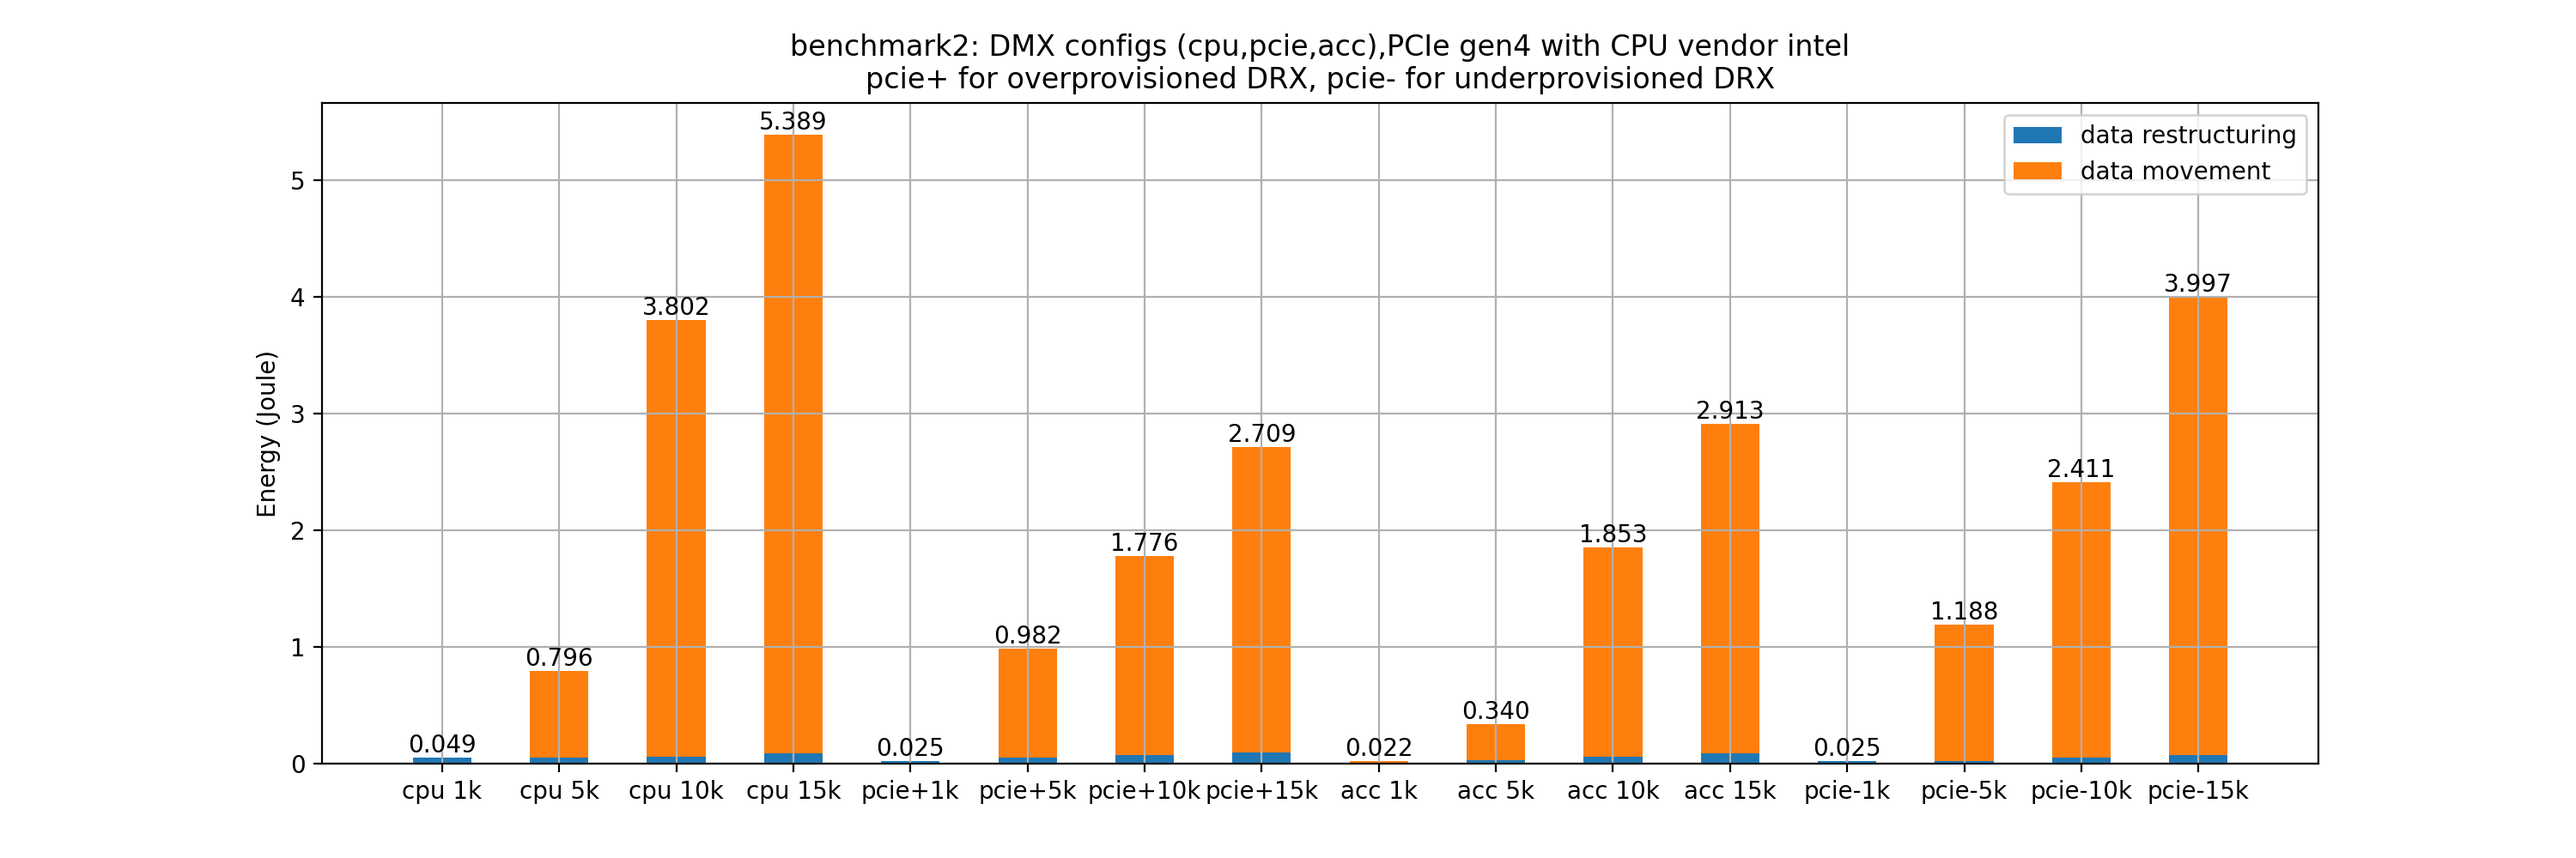
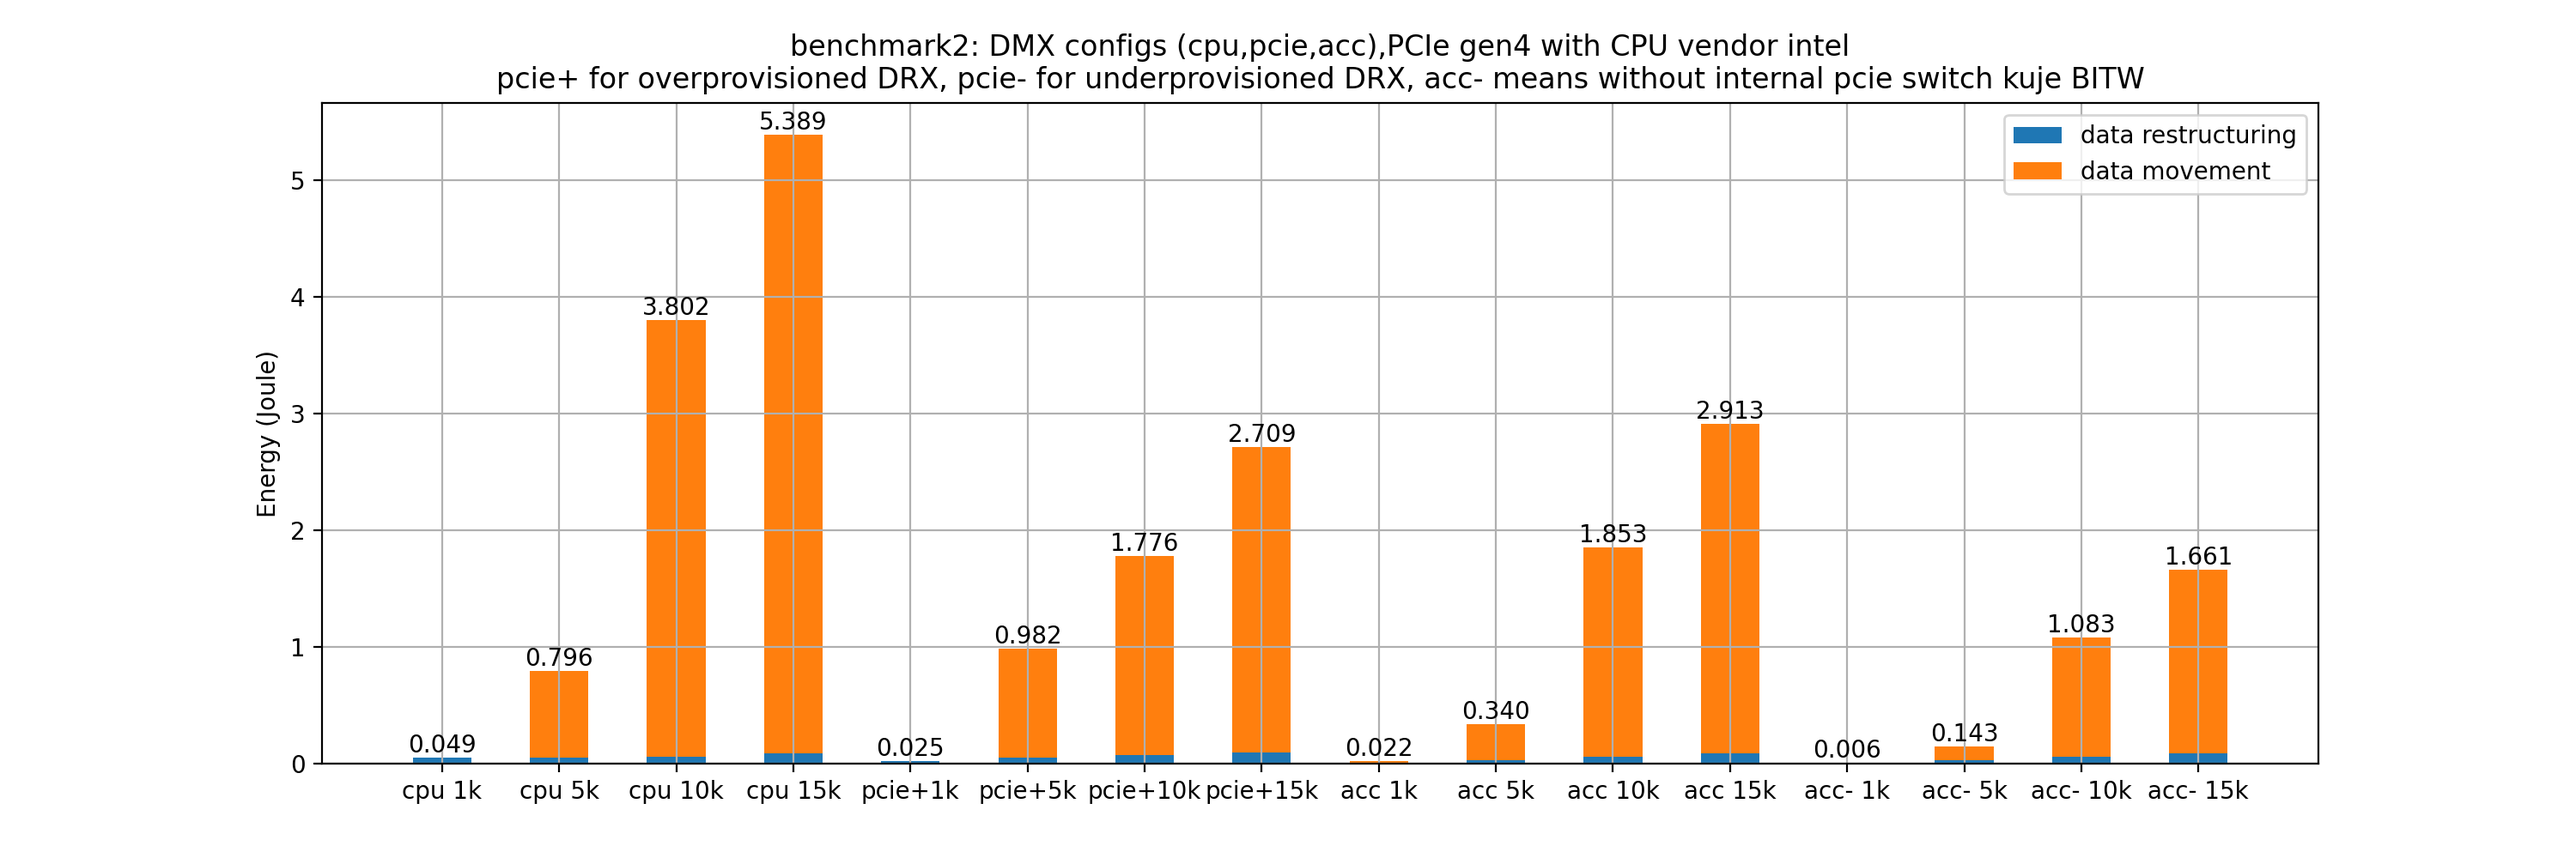
updated acc energy and power

Changed region(s): [[0.186, 0.062, 0.837, 0.124], [0.744, 0.31, 0.868, 0.868], [0.713, 0.868, 0.868, 0.93]]

diff --git a/breakdown_acc_dmx_power.py b/breakdown_acc_dmx_power.py
@@ -2,7 +2,7 @@ import matplotlib.pyplot as plt
 import numpy as np
 from scipy.stats import gmean
 import sys
-from pcie_dma_model import pcie_energy
+from pcie_dma_model import pcie_power
 
 #B1: camera: video -> YOLO, 1080*720*4*32
 #B2: audio:  FFT -> SVM, 1024*768
@@ -113,33 +113,33 @@ else:
     exit()
 
 # pcie_energy = data movement PCIe per bit power*time + data movement PCIe switch power*time
-pcie_energy_cpu = [pcie_energy("cpu", data_size, 1, pci_gen, cpu_vendor), pcie_energy("cpu", data_size, 5, pci_gen, cpu_vendor), pcie_energy("cpu", data_size, 10, pci_gen, cpu_vendor), pcie_energy("cpu", data_size, 15, pci_gen, cpu_vendor)]
-pcie_energy_pcie_overprovisioned = [pcie_energy("pcie", data_size, 1, pci_gen, cpu_vendor), pcie_energy("pcie", data_size, 5, pci_gen, cpu_vendor), pcie_energy("pcie", data_size, 10, pci_gen, cpu_vendor), pcie_energy("pcie", data_size, 15, pci_gen, cpu_vendor)]
-pcie_energy_pcie_under= [pcie_energy("pcie-under", data_size, 1, pci_gen, cpu_vendor), pcie_energy("pcie-under", data_size, 5, pci_gen, cpu_vendor), pcie_energy("pcie-under", data_size, 10, pci_gen, cpu_vendor), pcie_energy("pcie-under", data_size, 15, pci_gen, cpu_vendor)]
-pcie_energy_acc = [pcie_energy("acc", data_size, 1, pci_gen, cpu_vendor), pcie_energy("acc", data_size, 5, pci_gen, cpu_vendor), pcie_energy("acc", data_size, 10, pci_gen, cpu_vendor), pcie_energy("acc", data_size, 15, pci_gen, cpu_vendor)]
-pcie_energy_acc_nosw = [pcie_energy("acc-nosw", data_size, 1, pci_gen, cpu_vendor), pcie_energy("acc-nosw", data_size, 5, pci_gen, cpu_vendor), pcie_energy("acc-nosw", data_size, 10, pci_gen, cpu_vendor), pcie_energy("acc-nosw", data_size, 15, pci_gen, cpu_vendor)]
+pcie_power_cpu = [pcie_power("cpu", data_size, 1, pci_gen, cpu_vendor), pcie_power("cpu", data_size, 5, pci_gen, cpu_vendor), pcie_power("cpu", data_size, 10, pci_gen, cpu_vendor), pcie_power("cpu", data_size, 15, pci_gen, cpu_vendor)]
+pcie_power_pcie_overprovisioned = [pcie_power("pcie", data_size, 1, pci_gen, cpu_vendor), pcie_power("pcie", data_size, 5, pci_gen, cpu_vendor), pcie_power("pcie", data_size, 10, pci_gen, cpu_vendor), pcie_power("pcie", data_size, 15, pci_gen, cpu_vendor)]
+pcie_power_pcie_under= [pcie_power("pcie-under", data_size, 1, pci_gen, cpu_vendor), pcie_power("pcie-under", data_size, 5, pci_gen, cpu_vendor), pcie_power("pcie-under", data_size, 10, pci_gen, cpu_vendor), pcie_power("pcie-under", data_size, 15, pci_gen, cpu_vendor)]
+pcie_power_acc = [pcie_power("acc", data_size, 1, pci_gen, cpu_vendor), pcie_power("acc", data_size, 5, pci_gen, cpu_vendor), pcie_power("acc", data_size, 10, pci_gen, cpu_vendor), pcie_power("acc", data_size, 15, pci_gen, cpu_vendor)]
+pcie_power_acc_nosw = [pcie_power("acc-nosw", data_size, 1, pci_gen, cpu_vendor), pcie_power("acc-nosw", data_size, 5, pci_gen, cpu_vendor), pcie_power("acc-nosw", data_size, 10, pci_gen, cpu_vendor), pcie_power("acc-nosw", data_size, 15, pci_gen, cpu_vendor)]
 
 #pcie_energy_total = [pcie_energy_cpu, pcie_energy_pcie_overprovisioned, pcie_energy_acc, pcie_energy_pcie_under]
-pcie_energy_total = [pcie_energy_cpu, pcie_energy_pcie_overprovisioned, pcie_energy_acc, pcie_energy_acc_nosw]
-pcie_energy_total = np.array(pcie_energy_total)
-pcie_energy_total = pcie_energy_total.flatten()
+pcie_power_total = [pcie_power_cpu, pcie_power_pcie_overprovisioned, pcie_power_acc, pcie_power_acc_nosw]
+pcie_power_total = np.array(pcie_power_total)
+pcie_power_total = pcie_power_total.flatten()
 
 drx_asic_power = 4.1
 # in mJ
-drx_energy_cpu  = np.array([dmx_time*8*drx_asic_power, dmx_time*8*drx_asic_power, dmx_time*10/8*8*drx_asic_power, dmx_time*15/8*8*drx_asic_power])
+drx_power_cpu  = np.array([8*drx_asic_power, 8*drx_asic_power, 8*drx_asic_power, 8*drx_asic_power])
 
-drx_energy_pcie_overprovisioned = [dmx_time*4*drx_asic_power, dmx_time*8*drx_asic_power, dmx_time*12*drx_asic_power, dmx_time*16*drx_asic_power]
-drx_energy_pcie_under = [dmx_time*4*drx_asic_power, dmx_time*4*drx_asic_power, dmx_time*8*drx_asic_power, dmx_time*12*drx_asic_power]
+drx_power_pcie_overprovisioned = [4*drx_asic_power, 8*drx_asic_power, 12*drx_asic_power, 16*drx_asic_power]
+drx_power_pcie_under = [4*drx_asic_power, 4*drx_asic_power, 8*drx_asic_power, 12*drx_asic_power]
 
-drx_energy_acc  = [dmx_time * drx_asic_power, dmx_time*5*drx_asic_power, dmx_time*10*drx_asic_power, dmx_time*15*drx_asic_power]
-drx_energy_acc_nosw = drx_energy_acc
+drx_power_acc  = [drx_asic_power, 5*drx_asic_power, 10*drx_asic_power, 15*drx_asic_power]
+drx_power_acc_nosw = drx_power_acc
 
 #drx_energy_total = [drx_energy_cpu, drx_energy_pcie_overprovisioned, drx_energy_acc, drx_energy_pcie_under]
-drx_energy_total = [drx_energy_cpu, drx_energy_pcie_overprovisioned, drx_energy_acc, drx_energy_acc_nosw]
-drx_energy_total = np.array(drx_energy_total)
-drx_energy_total = drx_energy_total.flatten()
+drx_power_total = [drx_power_cpu, drx_power_pcie_overprovisioned, drx_power_acc, drx_power_acc_nosw]
+drx_power_total = np.array(drx_power_total)
+drx_power_total = drx_power_total.flatten()
 
-dmx_energy_total = drx_energy_total + pcie_energy_total
+dmx_energy_total = drx_power_total + pcie_power_total
 
 fig_title = f'{benchmark_name}: DMX configs (cpu,pcie,acc),' + f"PCIe {pci_gen} with CPU vendor {cpu_vendor}\n" + f"pcie+ for overprovisioned DRX, pcie- for underprovisioned DRX, acc- means without internal pcie switch BITW"
 
@@ -153,26 +153,25 @@ labels = [f'cpu 1k', f'cpu 5k', f'cpu 10k' , f'cpu 15k',
           f'acc- 1k', f'acc- 5k', f'acc- 10k' , f'acc- 15k']
 
 
-print("pcie_energy_total")
+#print("pcie_energy_total")
 np.set_printoptions(formatter={'float': lambda x: "{0:0.3f}".format(x)})
-print(pcie_energy_total/1000)
+print(f"pcie_power_total:{pcie_power_total}")
+print(f"drx_power_total:{drx_power_total}")
 
-drx_ratio = drx_energy_total/dmx_energy_total
-data_movement_ratio = pcie_energy_total/dmx_energy_total
+drx_ratio = drx_power_total/dmx_energy_total
+data_movement_ratio = pcie_power_total/dmx_energy_total
 
 fig, ax = plt.subplots(figsize=(15,5))
-if mode == "energy":
-    drx_energy_total = drx_energy_total/1000
-    ax.bar(labels, drx_energy_total, width=0.5, label='data restructuring')
-    bottom = drx_energy_total
+if mode == "power":
+    ax.bar(labels, drx_power_total, width=0.5, label='data restructuring')
+    bottom = drx_power_total
 
-    pcie_energy_total = pcie_energy_total/1000
-    p = ax.bar(labels, pcie_energy_total, width=0.5, bottom=bottom, label='data movement')
+    p = ax.bar(labels, pcie_power_total, width=0.5, bottom=bottom, label='data movement')
     ax.bar_label(p, fmt='%.3f', label_type='edge')
 
     ax.legend(loc='best')
-    ax.set_ylabel('Energy (Joule)')
-    title = f"energy_{benchmark_name}_acc_dmx_configs_{cpu_vendor}_{pci_gen}.png"
+    ax.set_ylabel('Power (Watts)')
+    title = f"power_{benchmark_name}_acc_dmx_configs_{cpu_vendor}_{pci_gen}.png"
 
 elif mode == "breakdown":
     ax.bar(labels, drx_ratio, width=0.5, label='data restructuring')
@@ -181,7 +180,7 @@ elif mode == "breakdown":
 
     ax.legend(loc='best')
     ax.set_ylabel('Percentage (%)')
-    title = f'energy_breakdown_{benchmark_name}_acc_dmx_configs_{cpu_vendor}_{pci_gen}.png'
+    title = f'power_breakdown_{benchmark_name}_acc_dmx_configs_{cpu_vendor}_{pci_gen}.png'
 
 
 ax.grid(True)

diff --git a/pcie_dma_model.py b/pcie_dma_model.py
@@ -26,6 +26,39 @@ def pcie_switching_delay(data_size:int, pcie_gen: str) -> float:
 # def pcie_transfer_power()
 # PCIe:11 pJ/b
 
+def pcie_power(dmx_placment: str,data_size:int, num_kernel: int, pcie_gen: str, cpu_vendor: str) -> float:
+    acc_axi_delay = 57*0.001*0.001 # 57 ns
+    pcie_mps = 256 # max_payload_size of PCIe we assume, which is very common
+    mem_wrtie_hdr = 24 # 2B framing, 6B DLL header, 4B TLP header, and 12B MWr header
+    data_size = np.ceil(data_size/pcie_mps) * mem_wrtie_hdr + data_size
+
+    energy = 0
+    if dmx_placment == "cpu-only": # DMX uses CPU not DRX
+        power = 0
+    elif dmx_placment == "cpu": # DRX on CPU
+        power = pcie_power_dmx_on_cpu(data_size, num_kernel, pcie_gen, cpu_vendor)
+        time = dma_time_dmx_on_cpu(data_size, num_kernel, pcie_gen, cpu_vendor)*4
+        print(f"cpu: num-kernels:{num_kernel}, pcie-power:{power}, pcie-dma-time:{time}")
+    elif dmx_placment == "pcie-under":
+        power = pcie_power_dmx_on_pcie_under(data_size, num_kernel, pcie_gen, cpu_vendor)
+        time, _, _= dma_time_dmx_on_pcie_under(data_size, num_kernel, pcie_gen, cpu_vendor)
+    elif dmx_placment == "pcie":
+        power = pcie_power_dmx_on_pcie(data_size, num_kernel, pcie_gen, cpu_vendor)
+        time, _, _ = dma_time_dmx_on_pcie(data_size, num_kernel, pcie_gen, cpu_vendor)
+        print(f"pcie: num-kernels:{num_kernel}, pcie-power:{power}, pcie-dma-time:{time}")
+    elif dmx_placment == "acc":
+        power = pcie_power_dmx_on_acc(data_size, num_kernel, pcie_gen, cpu_vendor)
+        time, _, _ = dma_time_dmx_on_acc(data_size, num_kernel, pcie_gen, cpu_vendor)        
+        print(f"acc: num-kernels:{num_kernel}, pcie-power:{power}, pcie-dma-time:{time}")
+    elif dmx_placment == "acc-nosw":
+        power = pcie_power_dmx_on_acc_nosw(data_size, num_kernel, pcie_gen, cpu_vendor)
+        time, _, _ = dma_time_dmx_on_acc(data_size, num_kernel, pcie_gen, cpu_vendor)        
+        print(f"acc: num-kernels:{num_kernel}, pcie-power:{power}, pcie-dma-time:{time}")
+    else:
+        print("unsuppoted DMX placement")
+
+    return power
+
 def pcie_energy(dmx_placment: str,data_size:int, num_kernel: int, pcie_gen: str, cpu_vendor: str) -> float:
     acc_axi_delay = 57*0.001*0.001 # 57 ns
     pcie_mps = 256 # max_payload_size of PCIe we assume, which is very common
@@ -48,6 +81,10 @@ def pcie_energy(dmx_placment: str,data_size:int, num_kernel: int, pcie_gen: str,
         print(f"pcie: num-kernels:{num_kernel}, pcie-power:{power}, pcie-dma-time:{time}")
     elif dmx_placment == "acc":
         power = pcie_power_dmx_on_acc(data_size, num_kernel, pcie_gen, cpu_vendor)
+        time, _, _ = dma_time_dmx_on_acc(data_size, num_kernel, pcie_gen, cpu_vendor)        
+        print(f"acc: num-kernels:{num_kernel}, pcie-power:{power}, pcie-dma-time:{time}")
+    elif dmx_placment == "acc-nosw":
+        power = pcie_power_dmx_on_acc_nosw(data_size, num_kernel, pcie_gen, cpu_vendor)
         time, _, _ = dma_time_dmx_on_acc(data_size, num_kernel, pcie_gen, cpu_vendor)        
         print(f"acc: num-kernels:{num_kernel}, pcie-power:{power}, pcie-dma-time:{time}")
     else:
@@ -105,6 +142,30 @@ def pcie_power_dmx_on_acc(data_size:int, num_kernel: int, pcie_gen: str, cpu_ven
 
     # per DRX internal PCIe switch
     power = power + num_kernel*8.00
+
+    return power # in watts
+
+# The accelerator is deeply integrated with the Accelerator 
+# there's no internal PCIe switch
+def pcie_power_dmx_on_acc_nosw(data_size:int, num_kernel: int, pcie_gen: str, cpu_vendor: str) -> float:
+    power = 0
+    if pcie_gen == "gen4" and cpu_vendor == "intel":
+        acc_pcie_lane = 8
+        cpu_pcie_lane = 64
+        upstream_ports = int(cpu_pcie_lane/acc_pcie_lane)
+
+        if num_kernel == 1:
+            power = 0
+        elif num_kernel == 5:
+            power = 2 * 11.44 # use 26-lane, lanes = 8*2 (2 downstream) + 8 (upstream) = 24
+        elif num_kernel == 10:
+            power = 6*11.44 + 2*18.81 # lanes = 8*2 (2 downstream) + 8 (upstream) = 24 or 8*4 (2 downstream) + 8 (upstream) = 40
+        elif num_kernel == 15:
+            power = upstream_ports * 18.81 # use 50-lane, lanes = 8*4 (2 downstream) + 8 (upstream) = 40
+        else:
+            print("un-supported number of kernels")
+    else:
+        print("un-supported")
 
     return power # in watts
 

diff --git a/breakdown_acc_dmx_options.py b/breakdown_acc_dmx_options.py
@@ -87,8 +87,8 @@ b4 = b4_k1 + b4_k2
 #b4_movement = b4_dma + control_pool_overhead
 b5 = b5_k1 + b5_k2
 
-print(f"{b1},{b2},{b3}, {b4}, {b5}")
-exit()
+# print(f"{b1},{b2},{b3}, {b4}, {b5}")
+# exit()
 
 acc_kernel = np.ones(16)
 #second_kernel = np.ones(12)
